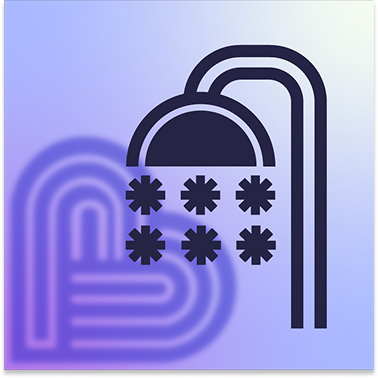
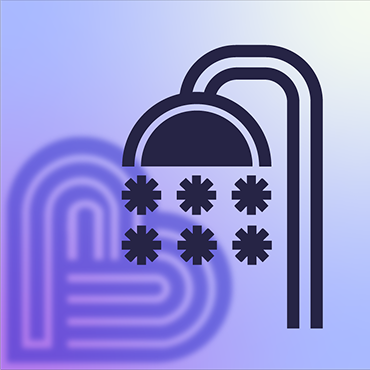
F5A: Hover effect for service components, centering on sidebar collapse

Changed region(s): [[0.0, 0.0, 1.0, 1.0], [0.1189, 0.7135, 0.1486, 0.8919]]

diff --git a/frontend/breaktime/src/components/YACarouselItem.jsx b/frontend/breaktime/src/components/YACarouselItem.jsx
@@ -9,7 +9,16 @@ const CarouselItem = ({ name, image }) => {
             onMouseEnter={() => setIsHovering(true)}
             onMouseLeave={() => setIsHovering(false)}
         >
-            <img className="w-80 h-80 rounded-xl" src={`${image}`}/>
+            <div className="relative w-76 h-76">
+                <img className={`${isHovering ? 'blur-[2px]' : ''} rounded-xl shadow-md object-cover`} src={image} alt={name} />
+                <div
+                    className={`absolute inset-0 flex items-center justify-center rounded-xl transition-opacity duration-200 ${isHovering ? 'opacity-100' : 'opacity-0'}`}
+                    style={{ backgroundColor: 'rgb(38, 36, 69, 0.4)' }}
+                >
+                    <span className="text-lime-500 border-2 rounded-xl pt-2 pb-2 pr-3 pl-3 text-3xl lowercase">book this service</span>
+                </div>
+            </div>
+            
             <p className={`${isHovering ? 'underline' : ''} font-bold text-lg`}>
                 { isHovering ? "Details & Guidelines" : name } 
             </p>

diff --git a/frontend/breaktime/src/pages/YouthLandingPage.jsx b/frontend/breaktime/src/pages/YouthLandingPage.jsx
@@ -58,7 +58,7 @@ export default function HomePage() {
                     <SideBar userType={userType}/>
                 </div>
 
-                <div className={`h-[calc(100vh-120px)] relative border-none rounded-[20px] font-all text-cal-font ${isSidebarOpen ? 'w-[calc(100vw-440px)]' : 'w-[calc(100vw-60px)]'}`}>
+                <div className={`h-[calc(100vh-120px)] relative border-none rounded-[20px] font-all text-cal-font ${isSidebarOpen ? 'w-[calc(100vw-440px)]' : 'w-[calc(100vw-60px)] text-center mt-20'}`}>
                     <h1 className="text-[104px] leading-[104px] mb-16">
                         Choose a <span className="text-bright-purple">Service</span> to get Started
                     </h1>
@@ -67,7 +67,7 @@ export default function HomePage() {
                         <div className="inline-flex gap-2">
                             {/* search bar itself*/}
                             <input
-                                className="text-dark-navy opacity-80 border-2 border-bright-purple rounded-2xl pl-5 pr-5 pt-0 pb-0 bg-none "
+                                className="text-dark-navy opacity-80 border-2 border-bright-purple rounded-2xl pl-5 pr-5 pt-0 pb-0 bg-none w-70"
                                 type="text"
                                 value={searchQuery}
                                 onChange={(e) => setSearchQuery(e.target.value)}